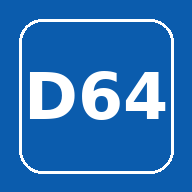
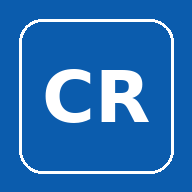
Add files via upload

Changed region(s): [[0.1562, 0.3438, 0.875, 0.6562]]

diff --git a/app.js b/app.js
@@ -1,0 +1,94 @@
+const G={del:"",prov:"",can:"",dis:""};
+const GEO={};
+DTA.split("\n").forEach(l=>{const p=l.split("|");if(p.length<3)return;(GEO[p[0]]=GEO[p[0]]||{})[p[1]]=p[2].split(",")});
+const F=(k,l,t,o={})=>Object.assign({k,l,t},o);
+const common=[F("fecha","Fecha","d",{e:"📆"}),F("hora","Hora","h",{e:"🕰"})];
+const ofic=F("ofic","Oficiales actuantes (uno por línea)","a",{e:"👮🏻♂",w:1});
+const uni=F("uni","Unidad móvil","t",{e:"🚓"});
+const nums=a=>a.map(x=>F(x[0],x[1],"n",{f:"l"}));
+const ofe=[F("ofn","Ofendido / persona interesada (nombre)","t",{e:"🙍",w:1}),F("ofc","Cédula del ofendido / interesado","t"),F("ofnac","Fecha de nacimiento del ofendido / interesado","d")];
+const T={
+droga:{n:"Decomiso de droga",h:d=>`🏛*PLANTILLA DECOMISO DROGA ${d}*`,f:[...common,F("lug","Lugar del decomiso","t",{e:"🗾",w:1}),F("imp","Imputado","t",{e:"👨🏻",w:1}),F("ced","Cédula","t"),F("nac","Fecha de nacimiento","d"),F("nal","Nacionalidad","t"),F("dec","Decomiso (ej. 05 puchos de marihuana, 01 informe policial)","a",{e:"🗂",w:1}),ofic,uni]},
+moto:{n:"Decomiso de motocicleta",h:d=>`🏛*PLANTILLA DECOMISO MOTOCICLETA ${d}*`,f:[...common,F("lug","Lugar del decomiso","t",{e:"🗾",w:1}),F("imp","Imputado","t",{e:"👨🏻",w:1}),F("ced","Cédula","t"),F("nal","Nacionalidad","t"),...ofe,F("dec","Descripción (marca, estilo, placa, motor)","a",{e:"🗂",w:1}),F("den","Denuncia OIJ","t",{w:1}),F("dil","Diligencias policiales","a",{w:1}),ofic,uni]},
+apre:{n:"Aprehensión",h:d=>`▁ ▂ ▄ ▅ ▆ ${d} ▆ ▅ ▄ ▂ ▁\n⚖ *PLANTILLA APREHENSIONES*`,f:[F("tipo","Tipo de delito","t",{e:"⚖",w:1}),...common,F("lug","Lugar exacto","t",{w:1}),F("imp","Nombre imputado","t",{e:"👥",w:1}),F("ced","Cédula","t"),F("nac","Fecha de nacimiento","d"),...ofe,F("hap","Hora de aprehensión","h",{e:"⚖"}),F("des","Breve descripción del evento","a",{w:1,big:1}),F("act","Oficial actuante","t",{w:1}),F("asi","Oficiales asistentes (uno por línea)","a",{e:"👮🏻♂",w:1}),F("rp","RP","t",{e:"🚓"}),F("fis","Presentado ante Fiscalía","s",{o:["Sí","No"]}),F("det","Quedó detenido","s",{o:["Sí","No"]})]},
+vd:{n:"Violencia doméstica (VD)",h:d=>`⚖ *PLANTILLA VIOLENCIA DOMÉSTICA* ⚖\n🎖 *${d}*`,f:[...common,F("lug","Lugar","t",{w:1}),F("imp","Nombre imputado (presunto agresor)","t",{e:"👥",w:1}),F("ced","Cédula","t"),F("nac","Fecha de nacimiento","d"),F("dom","Domicilio del imputado","a",{w:1}),F("ofn","Ofendido (nombre)","t",{e:"🙍",w:1}),F("ofc","Cédula del ofendido","t"),F("ofnac","Fecha de nacimiento del ofendido","d"),F("del","Delito","t",{e:"⚖",w:1}),F("ase","Asesor legal","t"),F("fis","Fiscal","t"),F("jue","Juez de familia","t"),F("des","Hechos","a",{w:1,big:1}),ofic,F("rp","RP / unidad móvil","t",{e:"🚓"}),F("det","Quedó detenido","s",{o:["Sí","No"]})]},
+fall:{n:"Persona fallecida",h:d=>`⚖ *PLANTILLA PERSONA FALLECIDA* ⚖\n🎖 *${d}*`,f:[...common,F("lug","Lugar exacto","t",{e:"🏞",w:1}),F("nom","Nombre del fallecido","t",{e:"👥",w:1}),F("ced","Cédula","t",{e:"💳"}),F("nac","Fecha de nacimiento","d",{e:"🖋"}),F("nal","Nacionalidad","t"),F("eda","Edad","t"),...ofe,F("des","Breve descripción del evento","a",{e:"📝",w:1,big:1}),ofic,F("cr","Funcionarios Cruz Roja (uno por línea)","a",{e:"🚑",w:1}),F("ucr","Unidad Cruz Roja","t"),F("hdec","Hora en que lo declara","h"),F("oij","OIJ (llegada, conductor, móvil, juez, fiscal, hora levantamiento)","a",{w:1})]},
+zip:{n:"Resultados ZIP",h:d=>`🛑 *PLANTILLA RESULTADOS FINAL DE ATENCIÓN OPERATIVA DE ZIP ${d}* 🛑`,foot:1,f:[F("zn","ZIP #","t",{f:"l",e:"🔹"}),F("zd","Sector del ZIP","t",{f:"l"}),F("fecha","Fecha de atención","d",{f:"l",e:"📅"}),F("hini","Hora inicio","h"),F("hfin","Hora fin","h"),F("sec","Sectores específicos de intervención (uno por línea)","a",{e:"📌",w:1}),F("rec","Recursos: móvil y oficiales (uno por línea)","a",{e:"🚔",w:1}),...nums([["pa","Personas abordadas"],["pap","AP a personas"],["a88","X88 abordadas"],["p88","AP X88"],["a90","X90 abordados"],["p90","AP X90"],["dm","Decomiso marihuana"],["dc","Decomiso cocaína"],["dk","Decomiso crack"],["da","Decomiso armas"],["d88","Decomiso X88"],["d90","Decomiso X90"],["inf","Informes realizados"],["act","Actas de hallazgo"]]),F("not","Notas","a",{w:1})]},
+ctrl:{n:"Control vehicular",h:d=>`🔷${d}\n🔷Finaliza el control vehicular`,pre:"🔷",f:[F("lug","Lugar del control","t",{w:1,f:"l"}),...nums([["pa","Personas abordadas"],["pi","Personas investigadas"],["ca","Carros abordados"],["ci","Carros investigados"],["ma","Motos abordadas"],["mi","Motos investigadas"]]),F("dec","Decomiso de droga u otros (uno por línea)","a",{w:1,f:"l"})]},
+nov:{n:"Novedad / abordaje general",h:d=>`📌*NOVEDAD ${d}*`,f:[...common,F("lug","Lugar","t",{e:"🗾",w:1}),...ofe,F("des","Descripción","a",{e:"📝",w:1,big:1}),ofic,uni]}
+};
+const $=id=>document.getElementById(id);
+const fm=v=>{const m=/^(\d{4})-(\d\d)-(\d\d)$/.exec(v);return m?m[3]+"/"+m[2]+"/"+m[1]:v};
+const up=s=>s.toUpperCase();
+let cur="droga",D={};
+const rd=k=>{try{return JSON.parse(localStorage.getItem(k)||"{}")}catch(e){return{}}};
+const wr=(k,v)=>{try{localStorage.setItem(k,JSON.stringify(v))}catch(e){}};
+function today(){const n=new Date(),p=x=>String(x).padStart(2,"0");return{d:n.getFullYear()+"-"+p(n.getMonth()+1)+"-"+p(n.getDate()),h:p(n.getHours())+":"+p(n.getMinutes())}}
+function load(){D=rd("cr_"+cur);const t=today();T[cur].f.forEach(f=>{if(D[f.k]==null)D[f.k]=f.k==="fecha"?t.d:f.k==="hora"?t.h:f.t==="n"?"0":""})}
+function build(){
+ const tp=T[cur],dg=up((G.del||"").trim())||"FUERZA PÚBLICA";
+ let L=[tp.h(dg),""];
+ if(G.prov)L.push("*🗺PROVINCIA:* "+G.prov);if(G.can)L.push("*CANTÓN:* "+G.can);if(G.dis)L.push("*DISTRITO:* "+G.dis);
+ if(G.prov||G.can||G.dis)L.push("");
+ tp.f.forEach(f=>{let v=D[f.k];if(v==null||v===""||f.k==="hini"||f.k==="hfin")return;
+  if(f.t==="d")v=fm(v);
+  const e=f.e?f.e+" ":"",lb=f.l.replace(/ \(.*\)/,"");
+  if(f.f==="l"){
+   if(f.t==="n"&&v.length===1)v="0"+v;
+   if(cur==="zip"&&f.k==="fecha")L.push(e+lb+": "+v,"⏰ Hora de ejecución del ZIP: "+(D.hini||"")+" a "+(D.hfin||"")+" horas","");
+   else L.push((tp.pre||"")+e+lb+": "+v);
+   if(cur==="zip"&&["zd","p90","d90"].includes(f.k))L.push("");
+  }else if(f.t==="a"||(f.w&&f.t==="t"&&["lug","imp"].includes(f.k))){L.push("*"+e+up(lb)+"*",v,"")}
+  else L.push("*"+e+up(lb)+":* "+v);
+ });
+ if(tp.foot)L.push("━━━━━━━━━━━━━━━━━━","🇨🇷 FUERZA PÚBLICA"+((G.del||"").trim()?" — "+up(G.del.trim()):"")+" 🚔");
+ return L.join("\n").replace(/\n{3,}/g,"\n\n").trim();
+}
+function fill(sel,arr,val,ph){sel.innerHTML="";[""].concat(arr).forEach(o=>{const op=document.createElement("option");op.value=o;op.textContent=o||ph;sel.appendChild(op)});sel.value=arr.includes(val)?val:""}
+function geo(){
+ fill($("gp"),Object.keys(GEO),G.prov,"— Provincia —");
+ const cs=G.prov?Object.keys(GEO[G.prov]):[];fill($("gc"),cs,G.can,"— Cantón —");if(!cs.includes(G.can))G.can="";
+ const ds=G.prov&&G.can?GEO[G.prov][G.can]:[];fill($("gd"),ds,G.dis,"— Distrito —");if(!ds.includes(G.dis))G.dis="";
+ $("gn").value=G.del||"";
+}
+function draw(){
+ const box=$("form");box.innerHTML="";
+ T[cur].f.forEach(f=>{
+  if(f.k==="hfin")return;
+  const w=document.createElement("div");if(f.w||f.t==="a")w.className="w";
+  const lab=document.createElement("label");lab.textContent=f.l+(f.k==="hini"?" – inicio / fin":"");w.appendChild(lab);
+  let i;
+  if(f.t==="a"){i=document.createElement("textarea");if(f.big)i.style.minHeight="130px"}
+  else if(f.t==="s"){i=document.createElement("select");[""].concat(f.o).forEach(o=>{const op=document.createElement("option");op.value=o;op.textContent=o||"—";i.appendChild(op)})}
+  else{i=document.createElement("input");i.type=f.t==="d"?"date":f.t==="h"?"time":f.t==="n"?"number":"text";if(f.t==="n"){i.min=0;i.inputMode="numeric"}}
+  i.value=D[f.k]||"";
+  i.oninput=()=>{D[f.k]=i.value;upd()};i.onchange=i.oninput;
+  w.appendChild(i);box.appendChild(w);
+  if(f.k==="hini"){const j=document.createElement("input");j.type="time";j.value=D.hfin||"";j.style.marginTop="6px";j.oninput=()=>{D.hfin=j.value;upd()};w.appendChild(j)}
+ });
+ upd();
+}
+function upd(){wr("cr_"+cur,D);wr("cr_geo",G);$("out").textContent=build()}
+function say(t){$("msg").textContent=t;setTimeout(()=>$("msg").textContent="",2500)}
+Object.assign(G,rd("cr_geo"));
+$("tipo").innerHTML=Object.keys(T).map(k=>`<option value="${k}">${T[k].n}</option>`).join("");
+$("tipo").onchange=e=>{cur=e.target.value;load();draw()};
+$("gp").onchange=e=>{G.prov=e.target.value;G.can="";G.dis="";geo();upd()};
+$("gc").onchange=e=>{G.can=e.target.value;G.dis="";geo();upd()};
+$("gd").onchange=e=>{G.dis=e.target.value;upd()};
+$("gn").oninput=e=>{G.del=e.target.value;upd()};
+$("cp").onclick=async()=>{const t=build();try{await navigator.clipboard.writeText(t)}catch(e){const a=document.createElement("textarea");a.value=t;document.body.appendChild(a);a.select();document.execCommand("copy");a.remove()}say("Plantilla copiada ✅")};
+$("wa").onclick=()=>window.open("https://wa.me/?text="+encodeURIComponent(build()),"_blank");
+$("tx").onclick=()=>{const b=new Blob(["\ufeff"+build()],{type:"text/plain;charset=utf-8"}),a=document.createElement("a");a.href=URL.createObjectURL(b);a.download="plantilla_"+cur+"_"+(D.fecha||"").replace(/-/g,"")+".txt";a.click();say("Archivo descargado")};
+let cT;
+$("cl").onclick=()=>{const b=$("cl");
+ if(!b.dataset.ok){b.dataset.ok=1;b.textContent="⚠ Toca otra vez para borrar";cT=setTimeout(()=>{delete b.dataset.ok;b.textContent="🧹 Limpiar"},3000);return}
+ clearTimeout(cT);delete b.dataset.ok;b.textContent="🧹 Limpiar";
+ try{localStorage.removeItem("cr_"+cur)}catch(e){}
+ D={};load();draw();say("Datos borrados 🧹")};
+const TH=["auto","light","dark"],TL={auto:"🌓 Auto",light:"☀ Claro",dark:"🌙 Oscuro"};
+let th="auto";try{th=localStorage.getItem("cr_theme")||"auto"}catch(e){}
+function setTh(){const r=document.documentElement;if(th==="auto")r.removeAttribute("data-theme");else r.setAttribute("data-theme",th);$("th").textContent=TL[th]}
+$("th").onclick=()=>{th=TH[(TH.indexOf(th)+1)%3];try{localStorage.setItem("cr_theme",th)}catch(e){}setTh()};
+setTh();geo();load();draw();
+if("serviceWorker"in navigator)window.addEventListener("load",()=>{navigator.serviceWorker.register("./sw.js").catch(()=>{})});

diff --git a/data.js b/data.js
@@ -1,0 +1,86 @@
+// División Territorial Administrativa de Costa Rica: 7 provincias, 84 cantones, 492 distritos.
+// Formato: Provincia|Cantón|Distrito1,Distrito2,...
+const DTA=`San José|San José|Carmen,Merced,Hospital,Catedral,Zapote,San Francisco de Dos Ríos,Uruca,Mata Redonda,Pavas,Hatillo,San Sebastián
+San José|Escazú|Escazú,San Antonio,San Rafael
+San José|Desamparados|Desamparados,San Miguel,San Juan de Dios,San Rafael Arriba,San Antonio,Frailes,Patarrá,San Cristóbal,Rosario,Damas,San Rafael Abajo,Gravilias,Los Guido
+San José|Puriscal|Santiago,Mercedes Sur,Barbacoas,Grifo Alto,San Rafael,Candelarita,Desamparaditos,San Antonio,Chires
+San José|Tarrazú|San Marcos,San Lorenzo,San Carlos
+San José|Aserrí|Aserrí,Tarbaca,Vuelta de Jorco,San Gabriel,Legua,Monterrey,Salitrillos
+San José|Mora|Colón,Guayabo,Tabarcia,Piedras Negras,Picagres,Jaris,Quitirrisí
+San José|Goicoechea|Guadalupe,San Francisco,Calle Blancos,Mata de Plátano,Ipís,Rancho Redondo,Purral
+San José|Santa Ana|Santa Ana,Salitral,Pozos,Uruca,Piedades,Brasil
+San José|Alajuelita|Alajuelita,San Josecito,San Antonio,Concepción,San Felipe
+San José|Vázquez de Coronado|San Isidro,San Rafael,Dulce Nombre de Jesús,Patalillo,Cascajal
+San José|Acosta|San Ignacio,Guaitil,Palmichal,Cangrejal,Sabanillas
+San José|Tibás|San Juan,Cinco Esquinas,Anselmo Llorente,León XIII,Colima
+San José|Moravia|San Vicente,San Jerónimo,La Trinidad
+San José|Montes de Oca|San Pedro,Sabanilla,Mercedes,San Rafael
+San José|Turrubares|San Pablo,San Pedro,San Juan de Mata,San Luis,Carara
+San José|Dota|Santa María,Jardín,Copey
+San José|Curridabat|Curridabat,Granadilla,Sánchez,Tirrases
+San José|Pérez Zeledón|San Isidro de El General,El General,Daniel Flores,Rivas,San Pedro,Platanares,Pejibaye,Cajón,Barú,Río Nuevo,Páramo,La Amistad
+San José|León Cortés Castro|San Pablo,San Andrés,Llano Bonito,San Isidro,Santa Cruz,San Antonio
+Alajuela|Alajuela|Alajuela,San José,Carrizal,San Antonio,Guácima,San Isidro,Sabanilla,San Rafael,Río Segundo,Desamparados,Turrúcares,Tambor,Garita,Sarapiquí
+Alajuela|San Ramón|San Ramón,Santiago,San Juan,Piedades Norte,Piedades Sur,San Rafael,San Isidro,Ángeles,Alfaro,Volio,Concepción,Zapotal,Peñas Blancas,San Lorenzo
+Alajuela|Grecia|Grecia,San Isidro,San José,San Roque,Tacares,Puente de Piedra,Bolívar
+Alajuela|San Mateo|San Mateo,Desmonte,Jesús María,Labrador
+Alajuela|Atenas|Atenas,Jesús,Mercedes,San Isidro,Concepción,San José,Santa Eulalia,Escobal
+Alajuela|Naranjo|Naranjo,San Miguel,San José,Cirrí Sur,San Jerónimo,San Juan,El Rosario,Palmitos
+Alajuela|Palmares|Palmares,Zaragoza,Buenos Aires,Santiago,Candelaria,Esquipulas,La Granja
+Alajuela|Poás|San Pedro,San Juan,San Rafael,Carrillos,Sabana Redonda
+Alajuela|Orotina|Orotina,El Mastate,Hacienda Vieja,Coyolar,La Ceiba
+Alajuela|San Carlos|Quesada,Florencia,Buenavista,Aguas Zarcas,Venecia,Pital,La Fortuna,La Tigra,La Palmera,Venado,Cutris,Monterrey,Pocosol
+Alajuela|Zarcero|Zarcero,Laguna,Tapesco,Guadalupe,Palmira,Zapote,Brisas
+Alajuela|Sarchí|Sarchí Norte,Sarchí Sur,Toro Amarillo,San Pedro,Rodríguez
+Alajuela|Upala|Upala,Aguas Claras,San José,Bijagua,Delicias,Dos Ríos,Yolillal,Canalete
+Alajuela|Los Chiles|Los Chiles,Caño Negro,El Amparo,San Jorge
+Alajuela|Guatuso|San Rafael,Buenavista,Cote,Katira
+Alajuela|Río Cuarto|Río Cuarto,Santa Rita,Santa Isabel
+Cartago|Cartago|Oriental,Occidental,Carmen,San Nicolás,Aguacaliente (San Francisco),Guadalupe,Corralillo,Tierra Blanca,Dulce Nombre,Llano Grande,Quebradilla
+Cartago|Paraíso|Paraíso,Santiago,Orosi,Cachí,Llanos de Santa Lucía,Birrisito
+Cartago|La Unión|Tres Ríos,San Diego,San Juan,San Rafael,Concepción,Dulce Nombre,San Ramón,Río Azul
+Cartago|Jiménez|Juan Viñas,Tucurrique,Pejibaye,La Victoria
+Cartago|Turrialba|Turrialba,La Suiza,Peralta,Santa Cruz,Santa Teresita,Pavones,Tuis,Tayutic,Santa Rosa,Tres Equis,La Isabel,Chirripó
+Cartago|Alvarado|Pacayas,Cervantes,Capellades
+Cartago|Oreamuno|San Rafael,Cot,Potrero Cerrado,Cipreses,Santa Rosa
+Cartago|El Guarco|El Tejar,San Isidro,Tobosi,Patio de Agua
+Heredia|Heredia|Heredia,Mercedes,San Francisco,Ulloa,Varablanca
+Heredia|Barva|Barva,San Pedro,San Pablo,San Roque,Santa Lucía,San José de la Montaña,Puente Salas
+Heredia|Santo Domingo|Santo Domingo,San Vicente,San Miguel,Paracito,Santo Tomás,Santa Rosa,Tures,Pará
+Heredia|Santa Bárbara|Santa Bárbara,San Pedro,San Juan,Jesús,Santo Domingo,Purabá
+Heredia|San Rafael|San Rafael,San Josecito,Santiago,Ángeles,Concepción
+Heredia|San Isidro|San Isidro,San José,Concepción,San Francisco
+Heredia|Belén|San Antonio,La Ribera,La Asunción
+Heredia|Flores|San Joaquín,Barrantes,Llorente
+Heredia|San Pablo|San Pablo,Rincón de Sabanilla
+Heredia|Sarapiquí|Puerto Viejo,La Virgen,Las Horquetas,Llanuras del Gaspar,Cureña
+Guanacaste|Liberia|Liberia,Cañas Dulces,Mayorga,Nacascolo,Curubandé
+Guanacaste|Nicoya|Nicoya,Mansión,San Antonio,Quebrada Honda,Sámara,Nosara,Belén de Nosarita
+Guanacaste|Santa Cruz|Santa Cruz,Bolsón,Veintisiete de Abril,Tempate,Cartagena,Cuajiniquil,Diriá,Cabo Velas,Tamarindo
+Guanacaste|Bagaces|Bagaces,La Fortuna,Mogote,Río Naranjo
+Guanacaste|Carrillo|Filadelfia,Palmira,Sardinal,Belén
+Guanacaste|Cañas|Cañas,Palmira,San Miguel,Bebedero,Porozal
+Guanacaste|Abangares|Las Juntas,Sierra,San Juan,Colorado
+Guanacaste|Tilarán|Tilarán,Quebrada Grande,Tronadora,Santa Rosa,Líbano,Tierras Morenas,Arenal,Cabeceras
+Guanacaste|Nandayure|Carmona,Santa Rita,Zapotal,San Pablo,Porvenir,Bejuco
+Guanacaste|La Cruz|La Cruz,Santa Cecilia,La Garita,Santa Elena
+Guanacaste|Hojancha|Hojancha,Monte Romo,Puerto Carrillo,Huacas,Matambú
+Puntarenas|Puntarenas|Puntarenas,Pitahaya,Chomes,Lepanto,Paquera,Manzanillo,Guacimal,Barranca,Isla del Coco,Cóbano,Chacarita,Chira,Acapulco,El Roble,Arancibia
+Puntarenas|Esparza|Espíritu Santo,San Juan Grande,Macacona,San Rafael,San Jerónimo,Caldera
+Puntarenas|Buenos Aires|Buenos Aires,Volcán,Potrero Grande,Boruca,Pilas,Colinas,Chánguena,Biolley,Brunka
+Puntarenas|Montes de Oro|Miramar,La Unión,San Isidro
+Puntarenas|Osa|Puerto Cortés,Palmar,Sierpe,Bahía Ballena,Piedras Blancas,Bahía Drake
+Puntarenas|Quepos|Quepos,Savegre,Naranjito
+Puntarenas|Golfito|Golfito,Guaycará,Pavón
+Puntarenas|Coto Brus|San Vito,Sabalito,Aguabuena,Limoncito,Pittier,Gutiérrez Braun
+Puntarenas|Parrita|Parrita
+Puntarenas|Corredores|Corredor,La Cuesta,Canoas,Laurel
+Puntarenas|Garabito|Jacó,Tárcoles,Lagunillas
+Puntarenas|Monteverde|Monteverde
+Puntarenas|Puerto Jiménez|Puerto Jiménez
+Limón|Limón|Limón,Valle La Estrella,Río Blanco,Matama
+Limón|Pococí|Guápiles,Jiménez,Rita,Roxana,Cariari,Colorado,La Colonia
+Limón|Siquirres|Siquirres,Pacuarito,Florida,Germania,El Cairo,Alegría,Reventazón
+Limón|Talamanca|Bratsi,Sixaola,Cahuita,Telire
+Limón|Matina|Matina,Batán,Carrandi
+Limón|Guácimo|Guácimo,Mercedes,Pocora,Río Jiménez,Duacarí`;

diff --git a/index.html b/index.html
@@ -3,8 +3,8 @@
 <head>
 <meta charset="utf-8">
 <meta name="viewport" content="width=device-width, initial-scale=1">
-<title>Plantillas D64 Carrillo</title>
-<meta name="description" content="Generador de plantillas operativas para WhatsApp. Los datos no salen de tu dispositivo.">
+<title>Plantillas operativas · Costa Rica</title>
+<meta name="description" content="Generador de plantillas operativas para WhatsApp, para cualquier delegación de Costa Rica. Los datos no salen de tu dispositivo.">
 <meta name="theme-color" content="#0b5cad">
 <link rel="manifest" href="manifest.webmanifest">
 <link rel="icon" href="icon-192.png">
@@ -12,8 +12,17 @@
 <link rel="stylesheet" href="style.css">
 </head>
 <body>
-<header><h1>🚔 Generador de plantillas · D64 Carrillo</h1><button id="th" type="button">🌓 Auto</button></header>
+<header><h1>🚔 Plantillas operativas · Costa Rica</h1><button id="th" type="button">🌓 Auto</button></header>
 <main>
+<div class="card">
+<label style="margin-top:0">Delegación / unidad (aparece en el encabezado)</label>
+<input id="gn" type="text" placeholder="Ej. Delegación de Carrillo D-64">
+<div class="g">
+<div class="w"><label>Provincia</label><select id="gp"></select></div>
+<div><label>Cantón</label><select id="gc"></select></div>
+<div><label>Distrito</label><select id="gd"></select></div>
+</div>
+</div>
 <div class="card"><label style="margin-top:0">Tipo de plantilla</label><select id="tipo"></select></div>
 <div class="card"><div class="g" id="form"></div></div>
 <div class="card">
@@ -28,6 +37,7 @@
 <div id="msg"></div>
 </div>
 </main>
+<script src="data.js"></script>
 <script src="app.js"></script>
 </body>
 </html>

diff --git a/sw.js b/sw.js
@@ -1,4 +1,4 @@
-const V="d64-v1",A=["./","index.html","style.css","app.js","manifest.webmanifest","icon-192.png","icon-512.png"];
+const V="cr-v1",A=["./","index.html","style.css","app.js","data.js","manifest.webmanifest","icon-192.png","icon-512.png"];
 self.addEventListener("install",e=>{e.waitUntil(caches.open(V).then(c=>c.addAll(A)));self.skipWaiting()});
 self.addEventListener("activate",e=>{e.waitUntil(caches.keys().then(k=>Promise.all(k.filter(x=>x!==V).map(x=>caches.delete(x)))));self.clients.claim()});
 self.addEventListener("fetch",e=>{if(e.request.method!=="GET")return;e.respondWith(fetch(e.request).then(r=>{const c=r.clone();caches.open(V).then(h=>h.put(e.request,c));return r}).catch(()=>caches.match(e.request)))});

diff --git a/README.md b/README.md
@@ -1,0 +1,19 @@
+# Plantillas operativas · Costa Rica
+
+Generador web de plantillas operativas para cualquier delegación del país: decomiso de droga y de motocicleta, aprehensión, violencia doméstica, persona fallecida, ZIP, control vehicular y novedad general.
+
+- Se elige la **provincia, el cantón y el distrito** (división territorial administrativa: 7 provincias, 84 cantones y 492 distritos) y se escribe el nombre de la delegación, que aparece en el encabezado.
+- Se llena el formulario y se copia, se envía por WhatsApp o se descarga como .txt.
+- Todo ocurre en el navegador: lo que se escribe se guarda solo en el dispositivo y no se envía a ningún sitio.
+- Tema claro, oscuro o automático. Se puede instalar como app (PWA) y funciona sin conexión.
+
+## Publicar con GitHub Pages
+1. Crea un repositorio y sube todos los archivos de esta carpeta a la raíz.
+2. Ve a **Settings → Pages**, elige **Deploy from a branch**, rama **main** y carpeta **/ (root)**, y guarda.
+3. En uno o dos minutos la página queda en `https://TU-USUARIO.github.io/NOMBRE-DEL-REPO/`.
+
+## Aviso
+La página es pública. No subas al repositorio datos reales de personas (nombres, cédulas, casos).
+
+## Actualizar la división territorial
+Los cantones y distritos están en `data.js`, una línea por cantón con el formato `Provincia|Cantón|Distrito1,Distrito2`. Si se crea un cantón o distrito nuevo, solo hay que editar esa línea.
